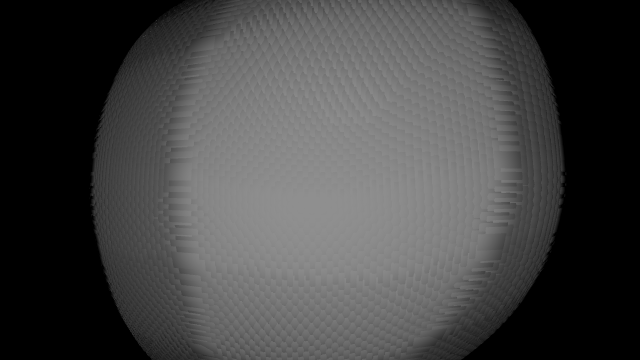
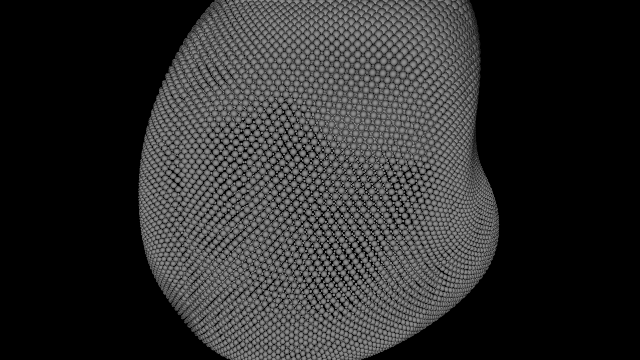
shadermod instancedperlinposition

diff --git a/src/ops/base/Ops.Gl.ShaderEffects.InstancedPerlinPosition_v2/Ops.Gl.ShaderEffects.InstancedPerlinPosition_v2.js b/src/ops/base/Ops.Gl.ShaderEffects.InstancedPerlinPosition_v2/Ops.Gl.ShaderEffects.InstancedPerlinPosition_v2.js
@@ -1,0 +1,89 @@
+const
+    render=op.inTrigger("Render"),
+    next=op.outTrigger("Next"),
+    inStrength=op.inValue("Strength",1),
+    scrollx=op.inValue("Scroll X"),
+    scrolly=op.inValue("Scroll Y"),
+    scrollz=op.inValue("Scroll Z"),
+    inWorldSpace=op.inValueBool("WorldSpace");
+
+const cgl=op.patch.cgl;
+
+var srcBodyVert=''
+    .endl()+'#ifdef INSTANCING'
+    .endl()+'   pos=MOD_deform(instMat,pos);'
+    .endl()+'#endif'
+
+    .endl();
+
+
+const mod = new CGL.ShaderModifier(cgl, op.name);
+mod.addModule({
+    "name": "MODULE_VERTEX_POSITION",
+    "srcHeadVert": attachments.perlin_instposition_vert,
+    "srcBodyVert": srcBodyVert
+});
+
+
+mod.addUniform('f','MOD_strength',inStrength);
+mod.addUniform('f','MOD_scrollx',scrollx);
+mod.addUniform('f','MOD_scrolly',scrolly);
+mod.addUniform('f','MOD_scrollz',scrollz);
+
+
+inWorldSpace.onChange=updateWorldspace;
+
+function updateWorldspace()
+{
+    mod.toggleDefine("MOD_WORLDSPACE",inWorldSpace.get());
+}
+
+render.onTriggered=function()
+{
+    // if(!cgl.getShader())
+    // {
+    //      next.trigger();
+    //      return;
+    // }
+
+    // if(cgl.getShader()!=shader)
+    // {
+    //     // if(shader) removeModule();
+    //     shader=cgl.getShader();
+
+    //     moduleVert=shader.addModule(
+    //         {
+    //             title:op.objName,
+    //             name:'MODULE_VERTEX_POSITION',
+    //             srcHeadVert:srcHeadVert,
+    //             srcBodyVert:srcBodyVert
+    //         });
+
+    //     inStrength.uniform=new CGL.Uniform(shader,'f',moduleVert.prefix+'strength',inStrength);
+
+    //     scrollx.uniform=new CGL.Uniform(shader,'f',moduleVert.prefix+'scrollx',scrollx);
+    //     scrolly.uniform=new CGL.Uniform(shader,'f',moduleVert.prefix+'scrolly',scrolly);
+    //     scrollz.uniform=new CGL.Uniform(shader,'f',moduleVert.prefix+'scrollz',scrollz);
+
+    //     updateWorldspace();
+    // }
+
+    // if(!shader)return;
+
+mod.bind();
+    next.trigger();
+    mod.unbind();
+};
+
+
+
+
+
+
+
+
+
+
+
+
+
